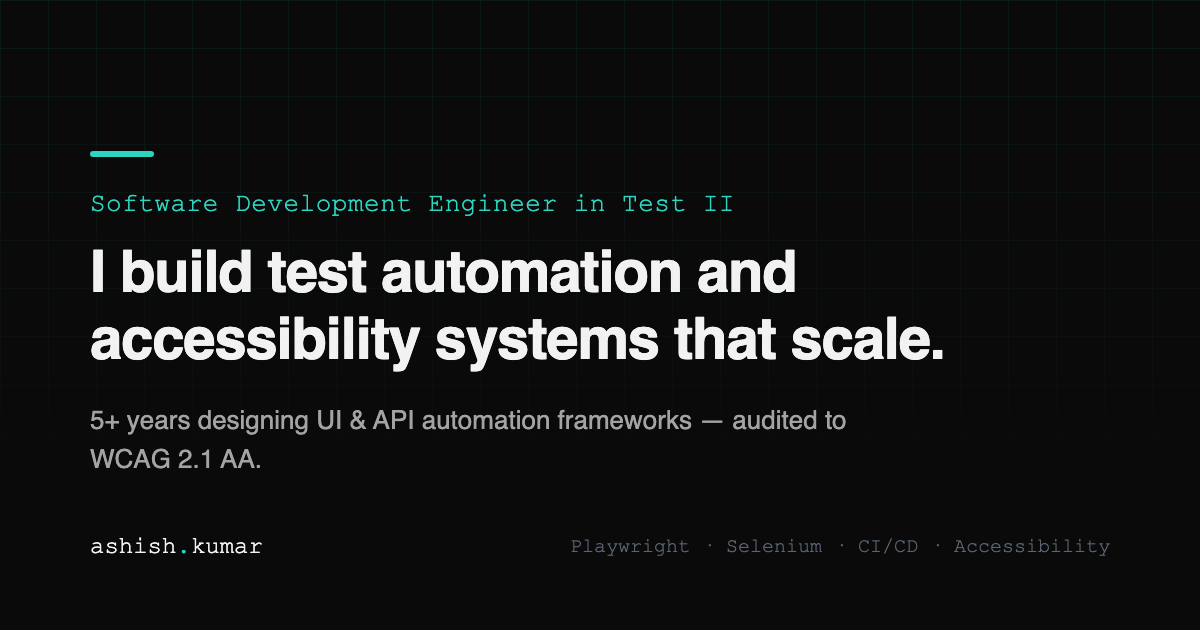
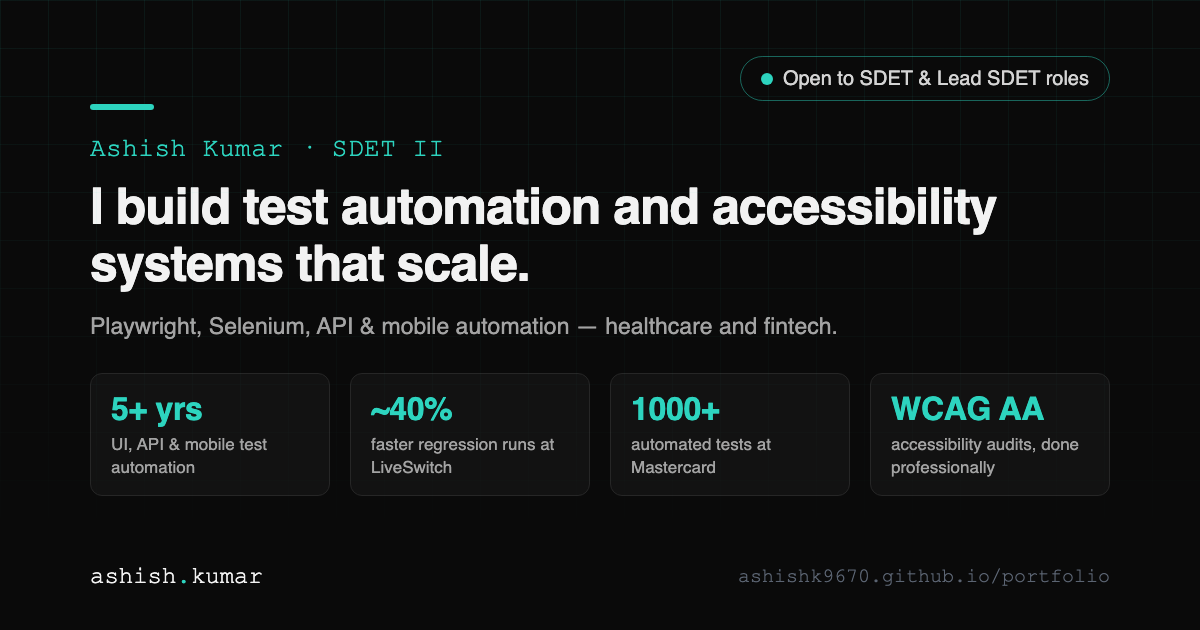
Add recruiter TL;DR, Now section, richer structured data, and a stats OG card
- Home: new "For recruiters & hiring managers" snapshot right after the hero
  (current role, experience, target roles, location/relocation, domains,
  leadership, education, highlights, core stack, resume/email/LinkedIn), and
  the single-line "Currently" block replaced by a dated "Now" section.
- Structured data: Person JSON-LD expanded with worksFor, alumniOf, address,
  occupation skills, knowsAbout and credentials, plus a WebSite entity, an
  About-page ProfilePage pointing at the Person, and blog authors linked to
  the same @id. JsonLd now escapes "<" per the Next.js JSON-LD guide.
- Social preview: main og-image.png is now generated by the script, with an
  "Open to SDET & Lead SDET roles" badge and four headline stats.
- e2e coverage for the snapshot, the Now section, and the JSON-LD graph.

diff --git a/src/components/RecruiterSnapshot.tsx b/src/components/RecruiterSnapshot.tsx
@@ -1,0 +1,96 @@
+import { Download, Mail } from "lucide-react";
+import { LinkedInIcon } from "@/components/BrandIcons";
+import { education, experience, profile, recruiterSnapshot } from "@/lib/data";
+import { withBasePath } from "@/lib/basePath";
+
+export function RecruiterSnapshot() {
+  const current = experience[0];
+  const facts = [
+    { term: "Current role", detail: `${current.role} at ${current.company}` },
+    { term: "Experience", detail: `${recruiterSnapshot.experience} in UI, API & mobile test automation` },
+    { term: "Looking for", detail: `${recruiterSnapshot.targetRoles} roles` },
+    { term: "Location", detail: `${profile.location} · ${recruiterSnapshot.relocation}` },
+    { term: "Domains", detail: recruiterSnapshot.domains },
+    { term: "Leadership", detail: recruiterSnapshot.leadership },
+    { term: "Education", detail: `${education.degree}, ${education.school}` },
+  ];
+
+  return (
+    <section aria-labelledby="for-recruiters" className="border-t border-border">
+      <div className="mx-auto max-w-5xl px-4 py-14 sm:px-6">
+        <div className="rounded-xl border border-border bg-surface p-6 sm:p-8">
+          <p className="font-mono text-xs uppercase tracking-wide text-accent">TL;DR</p>
+          <h2 id="for-recruiters" className="mt-1 text-xl font-semibold">
+            For recruiters &amp; hiring managers
+          </h2>
+
+          <div className="mt-6 grid gap-8 lg:grid-cols-[3fr_2fr]">
+            <dl className="grid gap-x-6 gap-y-4 sm:grid-cols-2">
+              {facts.map((fact) => (
+                <div key={fact.term}>
+                  <dt className="text-xs font-semibold uppercase tracking-wide text-muted">{fact.term}</dt>
+                  <dd className="mt-1 text-sm text-foreground">{fact.detail}</dd>
+                </div>
+              ))}
+            </dl>
+
+            <div className="flex flex-col gap-6">
+              <div>
+                <h3 className="text-xs font-semibold uppercase tracking-wide text-muted">Highlights</h3>
+                <ul className="mt-2 space-y-2 text-sm">
+                  {recruiterSnapshot.highlights.map((item) => (
+                    <li key={item} className="flex gap-2">
+                      <span className="mt-2 h-1.5 w-1.5 shrink-0 rounded-full bg-accent" aria-hidden="true" />
+                      {item}
+                    </li>
+                  ))}
+                </ul>
+              </div>
+
+              <div>
+                <h3 className="text-xs font-semibold uppercase tracking-wide text-muted">Core stack</h3>
+                <ul className="mt-2 flex flex-wrap gap-2">
+                  {recruiterSnapshot.coreStack.map((tool) => (
+                    <li
+                      key={tool}
+                      className="rounded-md border border-border bg-background px-2 py-1 font-mono text-xs"
+                    >
+                      {tool}
+                    </li>
+                  ))}
+                </ul>
+              </div>
+            </div>
+          </div>
+
+          <div className="mt-8 flex flex-wrap gap-3 border-t border-border pt-6">
+            <a
+              href={withBasePath("/resume.pdf")}
+              className="inline-flex items-center gap-1.5 rounded-md bg-accent px-4 py-2.5 text-sm font-medium text-accent-foreground transition-opacity hover:opacity-90"
+            >
+              <Download className="h-4 w-4" aria-hidden="true" />
+              Resume (PDF)
+            </a>
+            <a
+              href={`mailto:${profile.email}`}
+              className="inline-flex items-center gap-1.5 rounded-md border border-border bg-background px-4 py-2.5 text-sm font-medium transition-colors hover:border-accent"
+            >
+              <Mail className="h-4 w-4" aria-hidden="true" />
+              Email me
+            </a>
+            <a
+              href={profile.linkedin}
+              target="_blank"
+              rel="noopener noreferrer"
+              className="inline-flex items-center gap-1.5 rounded-md border border-border bg-background px-4 py-2.5 text-sm font-medium transition-colors hover:border-accent"
+            >
+              <LinkedInIcon className="h-4 w-4" />
+              LinkedIn
+              <span className="sr-only">(opens in a new tab)</span>
+            </a>
+          </div>
+        </div>
+      </div>
+    </section>
+  );
+}

diff --git a/src/app/layout.tsx b/src/app/layout.tsx
@@ -5,7 +5,7 @@ import { ThemeProvider } from "@/components/ThemeProvider";
 import { Header } from "@/components/Header";
 import { Footer } from "@/components/Footer";
 import { ContactWidget } from "@/components/ContactWidget";
-import { profile, siteUrl } from "@/lib/data";
+import { certifications, education, experience, profile, siteUrl, skills } from "@/lib/data";
 import { pageMetadata } from "@/lib/seo";
 import { JsonLd } from "@/components/JsonLd";
 
@@ -32,15 +32,52 @@ export const metadata: Metadata = {
   metadataBase: new URL(siteUrl),
 };
 
-const personJsonLd = {
+const personId = `${siteUrl}/#person`;
+const [city, country] = profile.location.split(", ");
+
+const structuredData = {
   "@context": "https://schema.org",
-  "@type": "Person",
-  name: profile.name,
-  jobTitle: profile.role,
-  description: profile.tagline,
-  url: siteUrl,
-  email: `mailto:${profile.email}`,
-  sameAs: [profile.github, profile.linkedin],
+  "@graph": [
+    {
+      "@type": "Person",
+      "@id": personId,
+      name: profile.name,
+      jobTitle: profile.role,
+      description: profile.summary,
+      url: siteUrl,
+      image: `${siteUrl}/og-image.png`,
+      email: `mailto:${profile.email}`,
+      sameAs: [profile.github, profile.linkedin],
+      address: { "@type": "PostalAddress", addressLocality: city, addressCountry: country },
+      worksFor: { "@type": "Organization", name: experience[0].company },
+      alumniOf: [
+        { "@type": "CollegeOrUniversity", name: education.school },
+        ...experience.slice(1).map((role) => ({ "@type": "Organization", name: role.company })),
+      ],
+      hasOccupation: {
+        "@type": "Occupation",
+        name: profile.role,
+        occupationLocation: { "@type": "City", name: city },
+        skills: skills.flatMap((group) => group.items).join(", "),
+      },
+      knowsAbout: [...new Set(["Test Automation", "Accessibility (WCAG 2.1 AA)", ...skills.slice(0, 3).flatMap((g) => g.items)])],
+      hasCredential: certifications.map((name) => ({
+        "@type": "EducationalOccupationalCredential",
+        name,
+        credentialCategory: "certificate",
+      })),
+    },
+    {
+      "@type": "WebSite",
+      "@id": `${siteUrl}/#website`,
+      url: siteUrl,
+      name: `${profile.name} — ${profile.role}`,
+      description: profile.tagline,
+      inLanguage: "en",
+      author: { "@id": personId },
+      publisher: { "@id": personId },
+    },
+  ],
 };
 
 export default function RootLayout({ children }: LayoutProps<"/">) {
@@ -51,7 +88,7 @@ export default function RootLayout({ children }: LayoutProps<"/">) {
       className={`${inter.variable} ${jetbrainsMono.variable} h-full antialiased`}
     >
       <body className="flex min-h-full flex-col bg-background text-foreground">
-        <JsonLd data={personJsonLd} />
+        <JsonLd data={structuredData} />
         <ThemeProvider attribute="class" defaultTheme="system" enableSystem>
           <a
             href="#main-content"

diff --git a/src/app/page.tsx b/src/app/page.tsx
@@ -1,7 +1,8 @@
 import Link from "next/link";
 import { ArrowRight } from "lucide-react";
-import { experience, impactHighlights, profile, projects } from "@/lib/data";
+import { experience, impactHighlights, now, profile, projects } from "@/lib/data";
 import { AvailabilityBadge } from "@/components/AvailabilityBadge";
+import { RecruiterSnapshot } from "@/components/RecruiterSnapshot";
 import { RelocationBadge } from "@/components/RelocationBadge";
 import { VisitorsMap } from "@/components/VisitorsMap";
 import { withBasePath } from "@/lib/basePath";
@@ -49,20 +50,33 @@ export default function Home() {
         </div>
       </section>
 
+      <RecruiterSnapshot />
+
       <section className="border-t border-border bg-surface">
         <div className="mx-auto max-w-5xl px-4 py-14 sm:px-6">
           <div className="flex items-baseline justify-between">
-            <h2 className="text-xl font-semibold">Currently</h2>
+            <h2 className="text-xl font-semibold">Now</h2>
             <Link href="/experience" className="text-sm text-accent hover:underline">
               Full experience →
             </Link>
           </div>
-          <div className="mt-4 rounded-lg border border-border bg-background p-6">
-            <p className="font-mono text-sm text-muted">
-              {latestRole.role} · {latestRole.company} · {latestRole.start} – {latestRole.end}
-            </p>
-            <p className="mt-2 text-foreground">{latestRole.bullets[0]}</p>
-          </div>
+          <p className="mt-2 text-sm text-muted">
+            {latestRole.role} · {latestRole.company} · since {latestRole.start} ·{" "}
+            <span className="font-mono">updated {now.updated}</span>
+          </p>
+          <ul className="mt-6 grid gap-4 sm:grid-cols-2">
+            {now.items.map((item) => (
+              <li key={item.label} className="rounded-lg border border-border bg-background p-5">
+                <p className="font-mono text-xs uppercase tracking-wide text-accent">{item.label}</p>
+                <p className="mt-2 text-sm text-foreground">{item.text}</p>
+                {item.link && (
+                  <Link href={item.link.href} className="mt-3 inline-block text-sm text-accent hover:underline">
+                    {item.link.label} →
+                  </Link>
+                )}
+              </li>
+            ))}
+          </ul>
         </div>
       </section>
 

diff --git a/src/lib/data.ts b/src/lib/data.ts
@@ -477,7 +477,47 @@ export const leadership: Principle[] = [
   },
 ];
 
-export type SkillTimelineEntry = { skill: string; since: string; years: string; note: string };
+export const recruiterSnapshot = {
+  experience: "5+ years",
+  targetRoles: "SDET and Lead SDET",
+  relocation: "Open to relocation — India and overseas",
+  domains: "Healthcare (HIPAA), commercial payments",
+  coreStack: ["Playwright", "Selenium", "Cypress", "Appium", "REST Assured", "TypeScript", "Java", "GitHub Actions"],
+  leadership: "Leading automation at Triomics; mentored interns and new joiners at every company",
+  highlights: [
+    "Cut regression execution time by ~40% at LiveSwitch",
+    "Built 1000+ automated tests at 95%+ coverage at Mastercard",
+    "Moved accessibility reviews from twice-yearly to monthly at Triomics",
+  ],
+};
+
+export type NowItem = { label: string; text: string; link?: { href: string; label: string } };
+
+export const now: { updated: string; items: NowItem[] } = {
+  updated: "October 2026",
+  items: [
+    {
+      label: "Building",
+      text: "The automation suite for an oncology clinical-trial matching platform at Triomics, and leading the effort to scale its coverage.",
+    },
+    {
+      label: "Driving",
+      text: "A pre-production accessibility checklist for every new feature, and a monthly accessibility review across every product Triomics ships.",
+    },
+    {
+      label: "On the side",
+      text: "A live Playwright suite against a public store, with its Allure report published on every push and replayable on this site.",
+      link: { href: "/qa-suite", label: "See the live report" },
+    },
+    {
+      label: "Looking for",
+      text: "SDET and Lead SDET roles where I can own automation strategy and grow a team — in India or overseas.",
+      link: { href: "/contact", label: "Get in touch" },
+    },
+  ],
+};
+
+export type SkillTimelineEntry ={ skill: string; since: string; years: string; note: string };
 
 export const skillTimeline: SkillTimelineEntry[] = [
   {

diff --git a/e2e/content.spec.ts b/e2e/content.spec.ts
@@ -257,3 +257,38 @@ test.describe("contact widget", () => {
     await expect(page.getByText(/Too many messages from here recently/)).toBeVisible();
   });
 });
+
+test.describe("home page for recruiters", () => {
+  test("TL;DR snapshot exposes key facts and contact actions", async ({ page }) => {
+    await page.goto("/");
+    const snapshot = page.getByRole("region", { name: "For recruiters & hiring managers" });
+    for (const term of ["Current role", "Experience", "Looking for", "Location", "Leadership"]) {
+      await expect(snapshot.getByRole("term").filter({ hasText: term })).toBeVisible();
+    }
+    await expect(snapshot.getByRole("link", { name: "Resume (PDF)" })).toHaveAttribute("href", /resume\.pdf$/);
+    await expect(snapshot.getByRole("link", { name: "Email me" })).toHaveAttribute("href", /^mailto:/);
+  });
+
+  test("Now section links out to live work and contact", async ({ page }) => {
+    await page.goto("/");
+    await expect(page.getByRole("heading", { name: "Now", exact: true })).toBeVisible();
+    await page.getByRole("link", { name: "See the live report →" }).click();
+    await expect(page).toHaveURL(/\/qa-suite$/);
+  });
+
+  test("structured data describes a Person linked from the About ProfilePage", async ({ page }) => {
+    const readJsonLd = () =>
+      page.locator('script[type="application/ld+json"]').evaluateAll((nodes) =>
+        nodes.map((n) => JSON.parse(n.textContent ?? "{}"))
+      );
+
+    await page.goto("/about");
+    const blocks = await readJsonLd();
+    const person = blocks.flatMap((b) => b["@graph"] ?? []).find((n) => n["@type"] === "Person");
+    const profilePage = blocks.find((b) => b["@type"] === "ProfilePage");
+
+    expect(person.worksFor.name).toBe("Triomics Healthcare");
+    expect(person.sameAs).toContain("https://github.com/Ashishk9670");
+    expect(profilePage.mainEntity["@id"]).toBe(person["@id"]);
+  });
+});

diff --git a/src/app/about/page.tsx b/src/app/about/page.tsx
@@ -1,5 +1,6 @@
-import { achievements, certifications, education, leadership, milestones, philosophy, profile } from "@/lib/data";
+import { achievements, certifications, education, leadership, milestones, philosophy, profile, siteUrl } from "@/lib/data";
 import { pageMetadata } from "@/lib/seo";
+import { JsonLd } from "@/components/JsonLd";
 
 export const metadata = pageMetadata({
   title: "About",
@@ -7,9 +8,18 @@ export const metadata = pageMetadata({
   path: "/about",
 });
 
+const profilePageJsonLd = {
+  "@context": "https://schema.org",
+  "@type": "ProfilePage",
+  url: `${siteUrl}/about`,
+  name: `About ${profile.name}`,
+  mainEntity: { "@id": `${siteUrl}/#person` },
+};
+
 export default function AboutPage() {
   return (
     <div className="mx-auto max-w-3xl px-4 py-16 sm:px-6">
+      <JsonLd data={profilePageJsonLd} />
       <h1 className="text-3xl font-semibold tracking-tight">About</h1>
 
       <div className="mt-8 space-y-5 text-foreground">

diff --git a/src/app/blog/[slug]/page.tsx b/src/app/blog/[slug]/page.tsx
@@ -39,7 +39,7 @@ export default async function BlogPostPage({ params }: Props) {
     datePublished: post.date,
     dateModified: post.date,
     url: `${siteUrl}/blog/${post.slug}`,
-    author: { "@type": "Person", name: profile.name, url: siteUrl },
+    author: { "@type": "Person", "@id": `${siteUrl}/#person`, name: profile.name, url: siteUrl },
   };
 
   return (

diff --git a/src/components/JsonLd.tsx b/src/components/JsonLd.tsx
@@ -2,7 +2,7 @@ export function JsonLd({ data }: { data: Record<string, unknown> }) {
   return (
     <script
       type="application/ld+json"
-      dangerouslySetInnerHTML={{ __html: JSON.stringify(data) }}
+      dangerouslySetInnerHTML={{ __html: JSON.stringify(data).replace(/</g, "\\u003c") }}
     />
   );
 }
